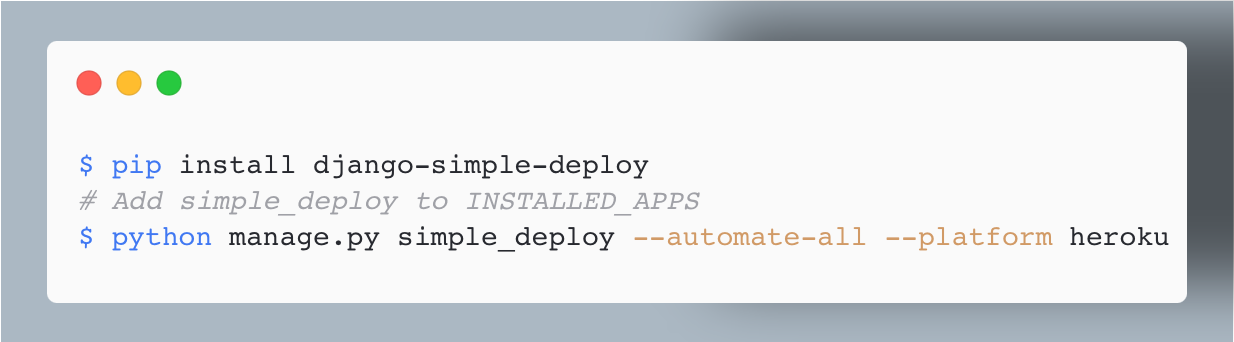
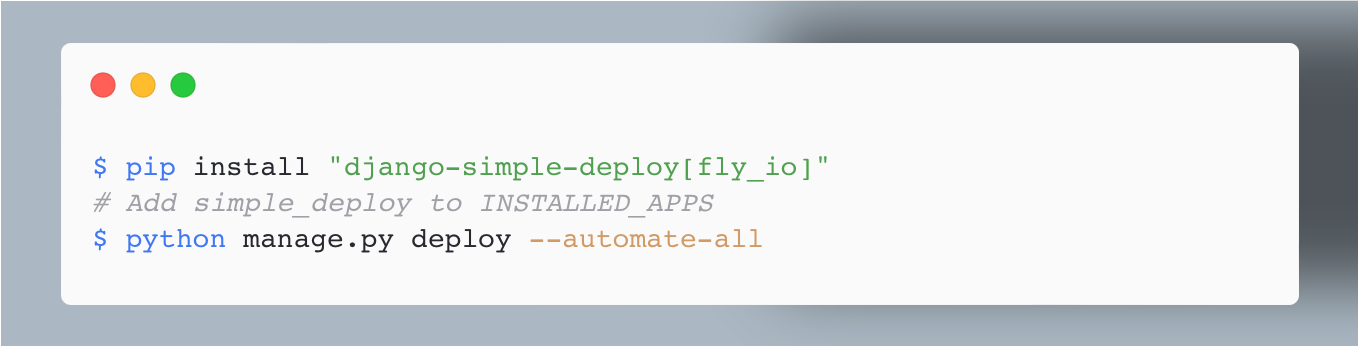
Updated readme to reflect current usage.

Changed region(s): [[0.0308, 0.117, 0.9854, 0.9064]]

diff --git a/README.md b/README.md
@@ -16,10 +16,10 @@ If you have a relatively simple Django project that runs locally, you can deploy
 
 ![Simplest example of how to use django-simple-deploy](https://raw.githubusercontent.com/ehmatthes/django-simple-deploy/main/assets/simplest_example.png)
 
-The above command will deploy your project to Heroku. To deploy to another platform such as Platform.sh, just change the `--platform` argument:
+The above command will deploy your project to Fly.io. To deploy to another platform such as Platform.sh, just install a different plugin when you install `django-simple-deploy`:
 
 ```sh
-python manage.py simple_deploy --platform platform_sh
+$ pip install "django-simple-deploy[platform_sh]"
 ```
 
 All output is captured and written to a log file stored in `simple_deploy_logs/`, which is placed at the project's root directory.
